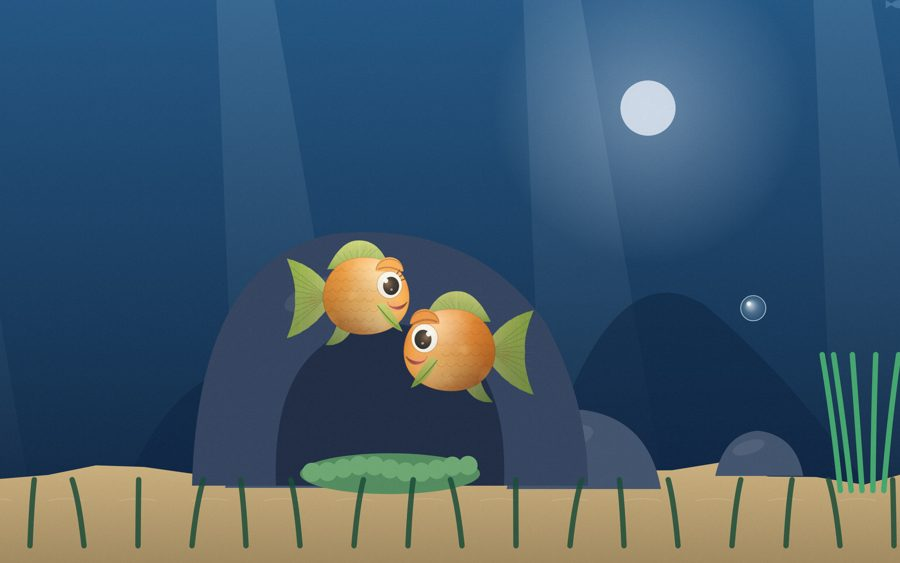
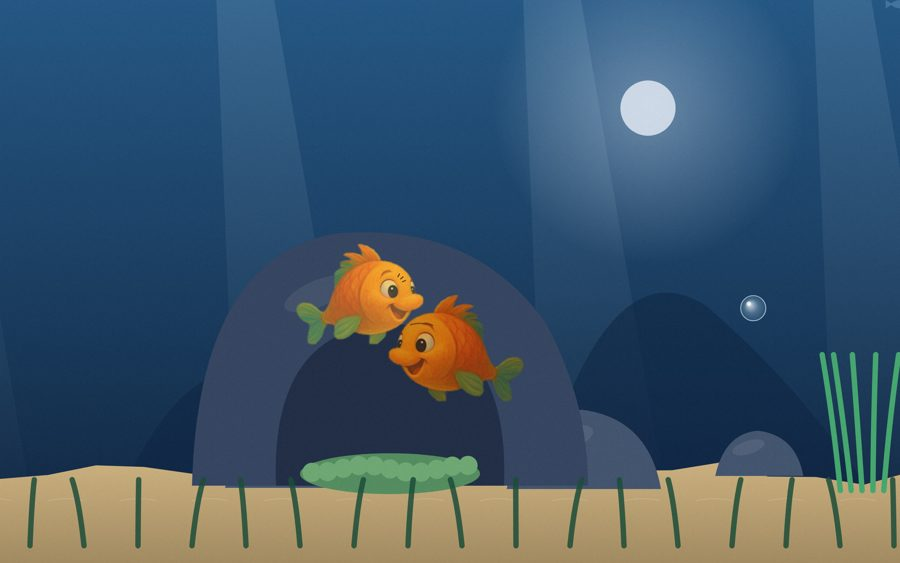
Fidibus: bring back the book-based fish family
Fidibus, Mama and Papa use the book illustration cut-outs again (Mama
and Papa derived from Fidibus as before); whale, turtle, starfish,
jellyfish, the painted hug scene and the rendered story cards stay.

Claude-Session: https://claude.ai/code/session_01UJUZeWQvUyQxZdWTLgeUri

Changed region(s): [[0.3111, 0.4227, 0.5911, 0.7247]]

diff --git a/fidibus/figures.js b/fidibus/figures.js
@@ -356,13 +356,33 @@ function jelly() {
   return { c, face: 1, eyes: [{ cx: cx - 70, cy: top + 134, rx: 40, ry: 42, col: '#d7a3ec' }, { cx: cx + 70, cy: top + 130, rx: 40, ry: 42, col: '#d7a3ec' }] };
 }
 
+// ───────────── Mama und Papa: aus Fidibus abgeleitet ─────────────
+function parent(img, kind) {
+  const S = 1.5, W = Math.round(img.width * S), H = Math.round(img.height * S); const [c, g] = mk(W, H);
+  g.drawImage(img, 0, 0, W, H);
+  g.save(); g.globalCompositeOperation = 'source-atop';
+  if (kind === 'mama') { g.fillStyle = 'rgba(255,215,140,.22)'; g.fillRect(0, 0, W, H); }
+  else { g.fillStyle = 'rgba(150,55,20,.22)'; g.fillRect(0, 0, W, H); g.globalCompositeOperation = 'source-atop'; g.fillStyle = 'rgba(80,30,10,.10)'; g.fillRect(0, 0, W, H); }
+  g.restore();
+  // Auge von fid_happy: (90,119) r 32x31 im Original; Bild blickt nach links
+  const ex = 90 * S, ey = 119 * S, rx = 32 * S, ry = 31 * S;
+  if (kind === 'mama') {
+    g.strokeStyle = '#2a1a10'; g.lineWidth = 3.5 * S / 1.5; g.lineCap = 'round';
+    for (let i = 0; i < 3; i++) { const a = -2.1 - i * 0.32; const x0 = ex + Math.cos(a) * rx * 0.95, y0 = ey + Math.sin(a) * ry * 0.95; g.beginPath(); g.moveTo(x0, y0); g.lineTo(x0 + Math.cos(a) * 14, y0 + Math.sin(a) * 14); g.stroke(); }
+    blush(g, ex + 30, ey + 40, 34, 20, 0.3);
+  } else {
+    // Papa: etwas kräftigere Braue
+    g.strokeStyle = 'rgba(90,40,10,.75)'; g.lineWidth = 5; g.lineCap = 'round'; g.beginPath(); g.moveTo(ex - rx * 0.9, ey - ry * 1.25); g.quadraticCurveTo(ex, ey - ry * 1.5, ex + rx * 0.9, ey - ry * 1.2); g.stroke();
+  }
+  grain(g, W, H, 0.06);
+  return { c, face: -1, eyes: [{ cx: ex, cy: ey, rx: rx, ry: ry, col: kind === 'mama' ? '#f6a03a' : '#d9731c' }] };
+}
+
 window.FIG = {
-  build() {
+  build(IMG) {
     const out = {};
     out.whale = whale(); out.turtle = turtle(); out.hug = turtle({ hug: true }); out.star = star(); out.jelly = jelly();
-    out.fid_happy = fish({ kind: 'fid' }); out.fid_talk = fish({ kind: 'fid', mouth: 'open' }); out.fid_sad = fish({ kind: 'fid', mouth: 'sad', worried: true });
-    out.fid_worried = fish({ kind: 'fid', worried: true }); out.fid_sleep = fish({ kind: 'fid', eyes: 'closed' }); out.fid_front = fish({ kind: 'fid', front: true });
-    out.mama = fish({ kind: 'mama' }); out.papa = fish({ kind: 'papa' });
+    if (IMG.fid_happy && IMG.fid_happy.width) { out.mama = parent(IMG.fid_happy, 'mama'); out.papa = parent(IMG.fid_happy, 'papa'); }
     return out;
   }
 };

diff --git a/fidibus/game.js b/fidibus/game.js
@@ -61,12 +61,12 @@ const SFX = {
 // ───────────── Bilder aus dem Buch ─────────────
 const IMG = {};
 const SPR = {
-  fid_happy: { face: -1, w: 178 }, fid_talk: { face: -1, w: 178 }, fid_sad: { face: -1, w: 178 }, fid_worried: { face: -1, w: 178 },
-  fid_sleep: { face: -1, w: 178 }, fid_front: { face: 1, w: 120 }, mama: { face: -1, w: 250 }, papa: { face: -1, w: 265 },
+  fid_happy: { face: -1, w: 150 }, fid_talk: { face: 1, w: 128 }, fid_sad: { face: 1, w: 142 }, fid_worried: { face: 1, w: 152 },
+  fid_sleep: { face: 1, w: 150 }, fid_front: { face: 1, w: 92 }, mama: { face: -1, w: 215 }, papa: { face: -1, w: 228 },
   whale: { face: 1, w: 1100 }, star: { face: 1, w: 300 }, jelly: { face: 1, w: 350 }, turtle: { face: 1, w: 900 }, hug: { face: 1, w: 900 }
 };
 function loadImages(cb) {
-  const keys = Object.keys(SPR); let n = 0;
+  const keys = ['fid_happy', 'fid_talk', 'fid_sad', 'fid_worried', 'fid_sleep', 'fid_front']; let n = 0;
   const done = () => { if (++n === keys.length) cb(); };
   for (const k of keys) { const im = new Image(); im.onload = done; im.onerror = done; im.src = 'img/' + k + '.png'; IMG[k] = im; }
 }
@@ -695,9 +695,9 @@ function frame(now) {
   update(dt); draw();
 }
 genProps(); makeCollect(); renderMap();
-setTimeout(() => {
-  const f = window.FIG.build(); for (const k in f) { IMG[k] = f[k].c; SPR[k].face = f[k].face; EYES[k] = f[k].eyes; }
-  document.getElementById('loading').style.display = 'none'; last = performance.now(); requestAnimationFrame(frame); }, 30);
+loadImages(() => {
+  const f = window.FIG.build(IMG); for (const k in f) { IMG[k] = f[k].c; SPR[k].face = f[k].face; EYES[k] = f[k].eyes; }
+  document.getElementById('loading').style.display = 'none'; last = performance.now(); requestAnimationFrame(frame); });
 
 // Test-Schnittstelle
 window.FB = { G, POS, HOME, STORY, setScale(v) { scale = v; }, get scale() { return scale; }, drawSpriteAnim, EYES, IMG, SPR, ctx, nextStep, startStory, jumpToStep(i) { G.step = i - 1; nextStep(); }, tp(x, y) { const f = G[G.ctrl || 'fid']; f.x = x; f.y = y; G.cam.x = x; G.cam.y = y; }, advanceDialog, tick(sec) { const n = Math.round(sec * 60); for (let i = 0; i < n; i++) update(1 / 60); }, setTarget(x, y) { G.target = { x, y }; }, draw };
